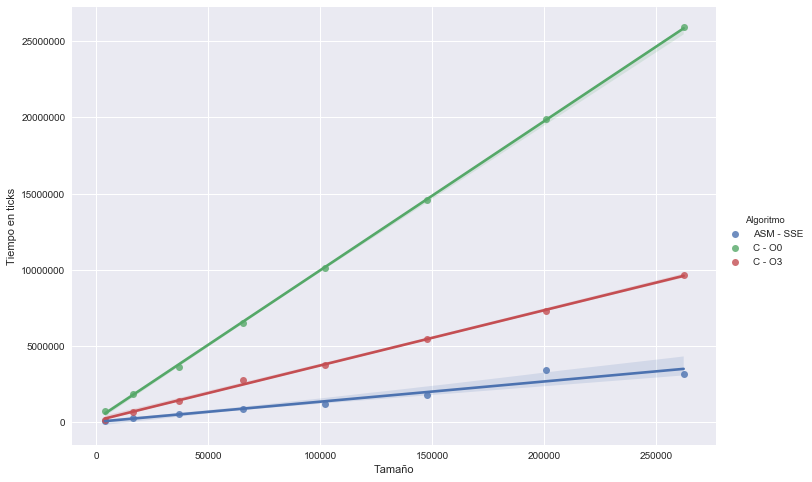
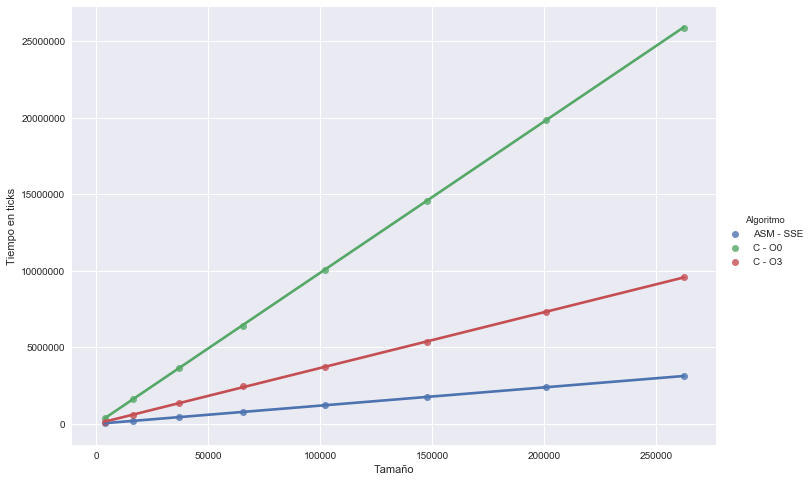
Agregar nuevos gráficos con data mas limpia

diff --git a/informe/combinar.tex b/informe/combinar.tex
@@ -271,7 +271,7 @@ Lo único que cambia de esta explicación con respecto a cuando el ancho no es m
 \subsubsection*{Comparar para distintos tamaños, relaciones entre implementaciones}
 \begin{figure}[H]
 \centering
-\includegraphics[scale=0.5]{img/fourCombine_CvsASM.png}
+\includegraphics[scale=0.5]{img/fourCombine_CvsASMvsO3.png}
 \caption{Comparación llana de las implementaciones en C contra la implementación en ASM}
 \label{sec:ticksciclo}
 \end{figure}
